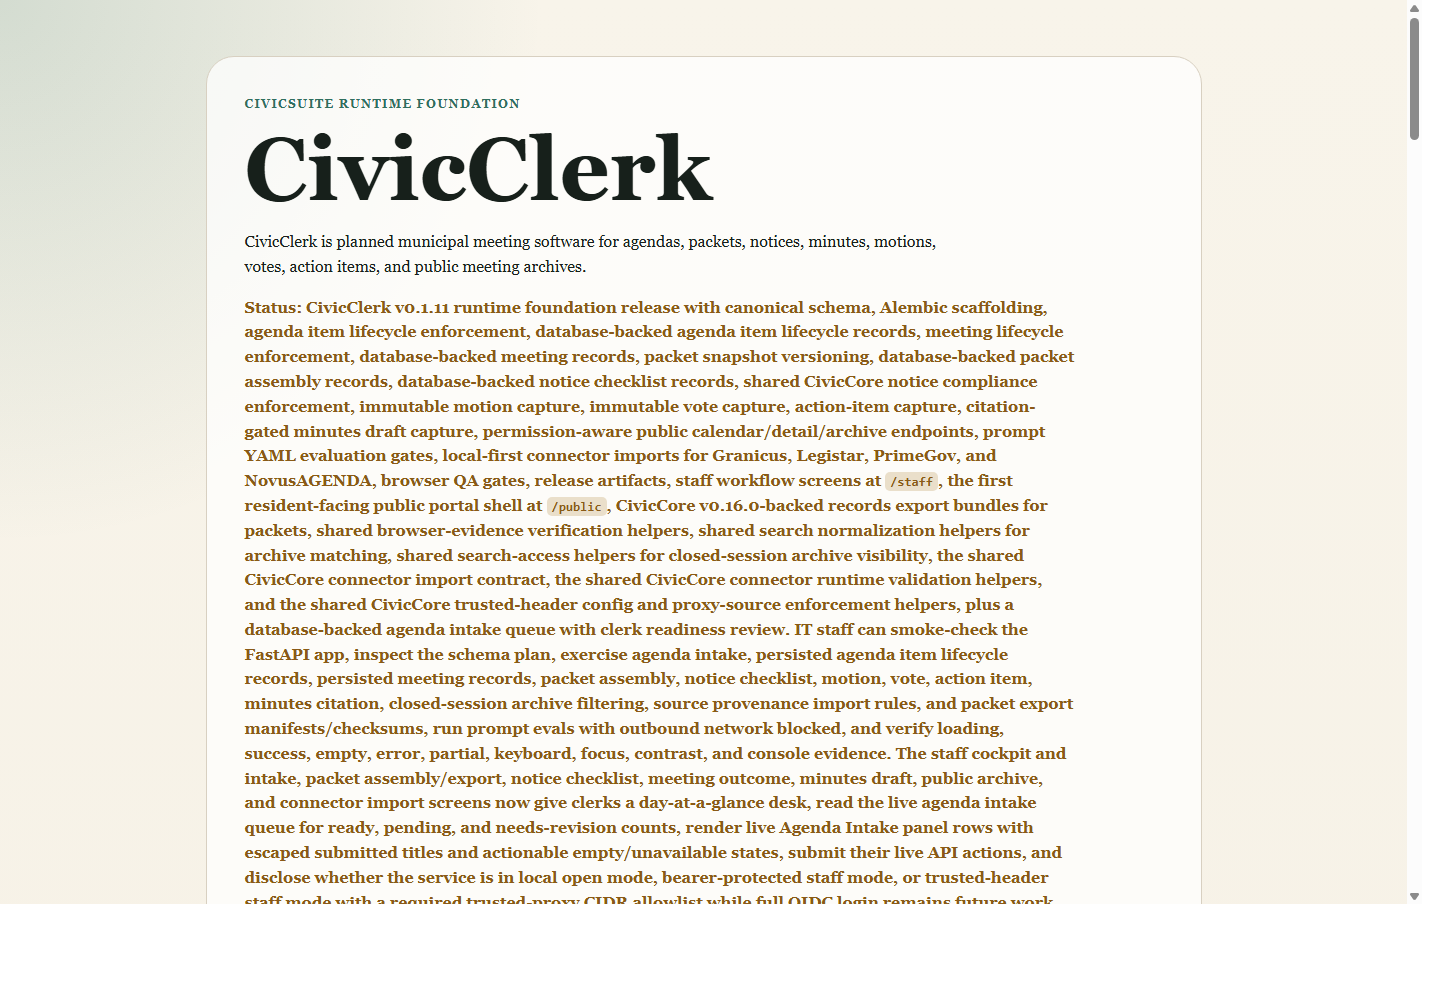
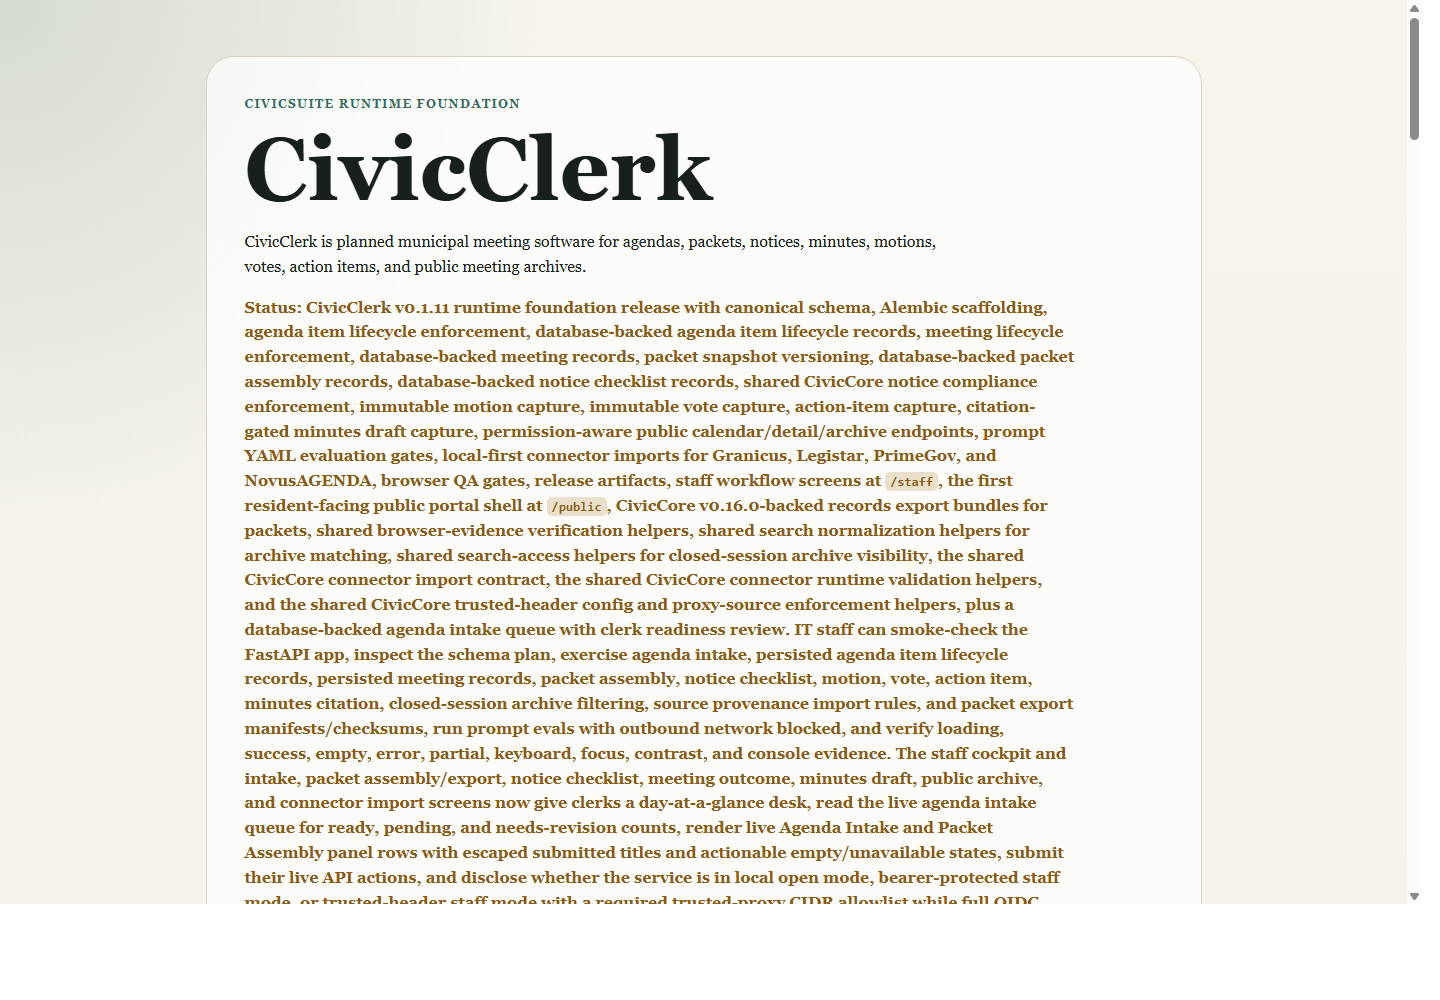
feat: render live packet assembly panel

Changed region(s): [[0.1562, 0.806, 0.75, 0.93]]

diff --git a/docs/index.html b/docs/index.html
@@ -51,7 +51,7 @@
       <div class="eyebrow">CivicSuite runtime foundation</div>
       <h1>CivicClerk</h1>
       <p>CivicClerk is planned municipal meeting software for agendas, packets, notices, minutes, motions, votes, action items, and public meeting archives.</p>
-<p class="status">Status: CivicClerk v0.1.11 runtime foundation release with canonical schema, Alembic scaffolding, agenda item lifecycle enforcement, database-backed agenda item lifecycle records, meeting lifecycle enforcement, database-backed meeting records, packet snapshot versioning, database-backed packet assembly records, database-backed notice checklist records, shared CivicCore notice compliance enforcement, immutable motion capture, immutable vote capture, action-item capture, citation-gated minutes draft capture, permission-aware public calendar/detail/archive endpoints, prompt YAML evaluation gates, local-first connector imports for Granicus, Legistar, PrimeGov, and NovusAGENDA, browser QA gates, release artifacts, staff workflow screens at <code>/staff</code>, the first resident-facing public portal shell at <code>/public</code>, CivicCore v0.16.0-backed records export bundles for packets, shared browser-evidence verification helpers, shared search normalization helpers for archive matching, shared search-access helpers for closed-session archive visibility, the shared CivicCore connector import contract, the shared CivicCore connector runtime validation helpers, and the shared CivicCore trusted-header config and proxy-source enforcement helpers, plus a database-backed agenda intake queue with clerk readiness review. IT staff can smoke-check the FastAPI app, inspect the schema plan, exercise agenda intake, persisted agenda item lifecycle records, persisted meeting records, packet assembly, notice checklist, motion, vote, action item, minutes citation, closed-session archive filtering, source provenance import rules, and packet export manifests/checksums, run prompt evals with outbound network blocked, and verify loading, success, empty, error, partial, keyboard, focus, contrast, and console evidence. The staff cockpit and intake, packet assembly/export, notice checklist, meeting outcome, minutes draft, public archive, and connector import screens now give clerks a day-at-a-glance desk, read the live agenda intake queue for ready, pending, and needs-revision counts, render live Agenda Intake panel rows with escaped submitted titles and actionable empty/unavailable states, submit their live API actions, and disclose whether the service is in local open mode, bearer-protected staff mode, or trusted-header staff mode with a required trusted-proxy CIDR allowlist while full OIDC login remains future work. The <code>/public</code> shell now gives residents a public-safe browser view over public calendar, detail, and archive search APIs while saying the finished public portal remains future work. The new <code>/staff/auth-readiness</code> contract now tells operators whether the configured bearer-token or trusted-header bridge is merely present or actually deployment-ready before a live session check, returns a session probe plus a write probe for protected deployment smoke checks, and includes a loopback-only local proxy rehearsal contract for <code>scripts/local_trusted_header_proxy.py</code> with <code>127.0.0.1/32</code> as the safe starter allowlist.</p>
+<p class="status">Status: CivicClerk v0.1.11 runtime foundation release with canonical schema, Alembic scaffolding, agenda item lifecycle enforcement, database-backed agenda item lifecycle records, meeting lifecycle enforcement, database-backed meeting records, packet snapshot versioning, database-backed packet assembly records, database-backed notice checklist records, shared CivicCore notice compliance enforcement, immutable motion capture, immutable vote capture, action-item capture, citation-gated minutes draft capture, permission-aware public calendar/detail/archive endpoints, prompt YAML evaluation gates, local-first connector imports for Granicus, Legistar, PrimeGov, and NovusAGENDA, browser QA gates, release artifacts, staff workflow screens at <code>/staff</code>, the first resident-facing public portal shell at <code>/public</code>, CivicCore v0.16.0-backed records export bundles for packets, shared browser-evidence verification helpers, shared search normalization helpers for archive matching, shared search-access helpers for closed-session archive visibility, the shared CivicCore connector import contract, the shared CivicCore connector runtime validation helpers, and the shared CivicCore trusted-header config and proxy-source enforcement helpers, plus a database-backed agenda intake queue with clerk readiness review. IT staff can smoke-check the FastAPI app, inspect the schema plan, exercise agenda intake, persisted agenda item lifecycle records, persisted meeting records, packet assembly, notice checklist, motion, vote, action item, minutes citation, closed-session archive filtering, source provenance import rules, and packet export manifests/checksums, run prompt evals with outbound network blocked, and verify loading, success, empty, error, partial, keyboard, focus, contrast, and console evidence. The staff cockpit and intake, packet assembly/export, notice checklist, meeting outcome, minutes draft, public archive, and connector import screens now give clerks a day-at-a-glance desk, read the live agenda intake queue for ready, pending, and needs-revision counts, render live Agenda Intake and Packet Assembly panel rows with escaped submitted titles and actionable empty/unavailable states, submit their live API actions, and disclose whether the service is in local open mode, bearer-protected staff mode, or trusted-header staff mode with a required trusted-proxy CIDR allowlist while full OIDC login remains future work. The <code>/public</code> shell now gives residents a public-safe browser view over public calendar, detail, and archive search APIs while saying the finished public portal remains future work. The new <code>/staff/auth-readiness</code> contract now tells operators whether the configured bearer-token or trusted-header bridge is merely present or actually deployment-ready before a live session check, returns a session probe plus a write probe for protected deployment smoke checks, and includes a loopback-only local proxy rehearsal contract for <code>scripts/local_trusted_header_proxy.py</code> with <code>127.0.0.1/32</code> as the safe starter allowlist.</p>
     </section>
 
     <section class="grid" aria-label="Product overview">

diff --git a/civicclerk/staff_ui.py b/civicclerk/staff_ui.py
@@ -172,11 +172,15 @@ def render_staff_dashboard(
     cockpit_items: Sequence[tuple[str, str, str]] | None = None,
     agenda_intake_items: Sequence[object] = (),
     agenda_intake_available: bool = True,
+    packet_assembly_records: Sequence[object] = (),
+    packet_assembly_available: bool = True,
 ) -> str:
     """Render the current staff workflow screens as dependency-free HTML."""
     screen_cards_data = _screen_cards_with_live_intake(
         agenda_intake_items=agenda_intake_items,
         agenda_intake_available=agenda_intake_available,
+        packet_assembly_records=packet_assembly_records,
+        packet_assembly_available=packet_assembly_available,
     )
     nav_buttons = "\n".join(
         f"""
@@ -918,11 +922,17 @@ def _screen_cards_with_live_intake(
     *,
     agenda_intake_items: Sequence[object],
     agenda_intake_available: bool,
+    packet_assembly_records: Sequence[object],
+    packet_assembly_available: bool,
 ) -> list[dict]:
     screen_cards = [dict(card) for card in SCREEN_CARDS]
     screen_cards[0]["rows"] = _agenda_intake_rows(
         agenda_intake_items=agenda_intake_items,
         agenda_intake_available=agenda_intake_available,
+    )
+    screen_cards[1]["rows"] = _packet_assembly_rows(
+        packet_assembly_records=packet_assembly_records,
+        packet_assembly_available=packet_assembly_available,
     )
     return screen_cards
 
@@ -977,6 +987,48 @@ def _next_intake_step(readiness_status: str | None) -> str:
     if readiness_status == "PENDING":
         return "Record clerk readiness review."
     return "Open the intake item and confirm readiness status."
+
+
+def _packet_assembly_rows(
+    *,
+    packet_assembly_records: Sequence[object],
+    packet_assembly_available: bool,
+) -> list[tuple[str, str, str, str]]:
+    if not packet_assembly_available:
+        return [
+            (
+                "IT",
+                "Packet assembly store unavailable",
+                "ERROR",
+                "Check CIVICCLERK_PACKET_ASSEMBLY_DB_URL and database reachability, then reload the staff desk.",
+            )
+        ]
+    if not packet_assembly_records:
+        return [
+            (
+                "Clerk",
+                "No packet assemblies yet",
+                "EMPTY",
+                "Create a meeting, submit at least one source and citation, then create the packet assembly record.",
+            )
+        ]
+    return [
+        (
+            f"Meeting {_field(record, 'meeting_id', 'unknown')}",
+            _field(record, "title", "Untitled packet assembly"),
+            _field(record, "status", "UNKNOWN"),
+            _next_packet_step(_field(record, "status", "UNKNOWN")),
+        )
+        for record in packet_assembly_records
+    ]
+
+
+def _next_packet_step(status: str) -> str:
+    if status == "FINALIZED":
+        return "Create the records-ready packet export bundle."
+    if status == "DRAFT":
+        return "Review sources and citations, then finalize the packet."
+    return "Open the packet assembly and confirm its status."
 
 
 def _render_screen_card(card: dict, active: bool) -> str:

diff --git a/tests/test_milestone_13_staff_workflow_ui.py b/tests/test_milestone_13_staff_workflow_ui.py
@@ -61,6 +61,8 @@ async def test_staff_ui_endpoint_renders_accessible_workflow_foundation() -> Non
     assert "Submit a department item with title, department, summary, and source references." in html
     assert "/meetings/{id}/packet-assemblies" in html
     assert "Packet Assembly" in html
+    assert "No packet assemblies yet" in html
+    assert "Create a meeting, submit at least one source and citation, then create the packet assembly record." in html
     assert "/meetings/{id}/notice-checklists" in html
     assert "Notice Checklist" in html
     assert "/notice-checklists/{id}/posting-proof" in html
@@ -216,6 +218,50 @@ async def test_staff_product_cockpit_handles_unavailable_intake_store(monkeypatc
     assert "check CIVICCLERK_AGENDA_INTAKE_DB_URL" in response.text
     assert "reload the staff desk" in response.text
     assert "Check CIVICCLERK_AGENDA_INTAKE_DB_URL and database reachability" in response.text
+
+
+async def test_staff_packet_panel_uses_live_packet_assembly_rows(monkeypatch, tmp_path) -> None:
+    monkeypatch.setenv("CIVICCLERK_PACKET_ASSEMBLY_DB_URL", f"sqlite:///{tmp_path / 'staff-packets.db'}")
+    async with AsyncClient(transport=ASGITransport(app=app), base_url="http://testserver") as client:
+        meeting = await client.post(
+            "/meetings",
+            json={
+                "title": "Live Packet Meeting",
+                "meeting_type": "regular",
+                "scheduled_start": "2026-05-05T19:00:00Z",
+            },
+        )
+        created = await client.post(
+            f"/meetings/{meeting.json()['id']}/packet-assemblies",
+            json={
+                "title": "Packet <script>draft</script>",
+                "agenda_item_ids": ["item-1"],
+                "actor": "clerk@example.gov",
+                "source_references": [{"source_id": "staff-report", "title": "Staff report"}],
+                "citations": [{"source_id": "staff-report", "locator": "p. 4", "claim": "Budget"}],
+            },
+        )
+        await client.post(
+            f"/packet-assemblies/{created.json()['id']}/finalize",
+            json={"actor": "clerk@example.gov"},
+        )
+        response = await client.get("/staff")
+
+    assert response.status_code == 200
+    assert "Packet &lt;script&gt;draft&lt;/script&gt;" in response.text
+    assert "Packet <script>draft</script>" not in response.text
+    assert "FINALIZED" in response.text
+    assert "Create the records-ready packet export bundle." in response.text
+
+
+async def test_staff_packet_panel_handles_unavailable_packet_store(monkeypatch) -> None:
+    monkeypatch.setenv("CIVICCLERK_PACKET_ASSEMBLY_DB_URL", "sqlite:///Z:/missing/packet-assembly.db")
+    async with AsyncClient(transport=ASGITransport(app=app), base_url="http://testserver") as client:
+        response = await client.get("/staff")
+
+    assert response.status_code == 200
+    assert "Packet assembly store unavailable" in response.text
+    assert "Check CIVICCLERK_PACKET_ASSEMBLY_DB_URL and database reachability" in response.text
 
 
 async def test_favicon_is_public_and_empty() -> None:

diff --git a/tests/test_production_depth_packet_assembly.py b/tests/test_production_depth_packet_assembly.py
@@ -79,6 +79,35 @@ def test_packet_assembly_finalize_updates_status_and_audit_hash(tmp_path) -> Non
     ]
 
 
+def test_packet_assembly_repository_lists_recent_records(tmp_path) -> None:
+    repo = PacketAssemblyRepository(db_url=f"sqlite:///{tmp_path / 'packet-assembly.db'}")
+    first = repo.create_draft(
+        meeting_id="meeting-1",
+        packet_snapshot_id="snapshot-1",
+        packet_version=1,
+        title="First packet",
+        actor="clerk@example.gov",
+        agenda_item_ids=["item-1"],
+        source_references=_source_refs(),
+        citations=_citations(),
+    )
+    second = repo.create_draft(
+        meeting_id="meeting-2",
+        packet_snapshot_id="snapshot-2",
+        packet_version=1,
+        title="Second packet",
+        actor="clerk@example.gov",
+        agenda_item_ids=["item-2"],
+        source_references=_source_refs(),
+        citations=_citations(),
+    )
+
+    recent = repo.list_recent(limit=1)
+
+    assert [record.id for record in recent] == [second.id]
+    assert first.id != second.id
+
+
 async def test_api_packet_assembly_create_list_finalize_and_export(monkeypatch, tmp_path) -> None:
     monkeypatch.setenv("CIVICCLERK_PACKET_ASSEMBLY_DB_URL", f"sqlite:///{tmp_path / 'api-assembly.db'}")
     monkeypatch.setenv("CIVICCLERK_EXPORT_ROOT", str(tmp_path / "exports"))

diff --git a/civicclerk/packet_assembly.py b/civicclerk/packet_assembly.py
@@ -163,6 +163,18 @@ class PacketAssemblyRepository:
             rows = connection.execute(statement).mappings().all()
         return [_row_to_record(row) for row in rows]
 
+    def list_recent(self, *, limit: int = 5) -> list[PacketAssemblyRecord]:
+        """Return recent packet assembly records for the staff dashboard."""
+
+        statement = (
+            sa.select(packet_assembly_records)
+            .order_by(packet_assembly_records.c.updated_at.desc())
+            .limit(limit)
+        )
+        with self.engine.begin() as connection:
+            rows = connection.execute(statement).mappings().all()
+        return [_row_to_record(row) for row in rows]
+
     def finalize(self, *, record_id: str, actor: str) -> PacketAssemblyRecord | None:
         existing = self.get(record_id)
         if existing is None:

diff --git a/civicclerk/main.py b/civicclerk/main.py
@@ -350,10 +350,18 @@ async def staff_dashboard() -> str:
         intake_items = []
         cockpit_items = build_staff_cockpit_items(agenda_intake_available=False)
         agenda_intake_available = False
+    try:
+        packet_assembly_records = _get_packet_assembly_repository().list_recent()
+        packet_assembly_available = True
+    except SQLAlchemyError:
+        packet_assembly_records = []
+        packet_assembly_available = False
     return render_staff_dashboard(
         cockpit_items=cockpit_items,
         agenda_intake_items=intake_items,
         agenda_intake_available=agenda_intake_available,
+        packet_assembly_records=packet_assembly_records,
+        packet_assembly_available=packet_assembly_available,
     )
 
 

diff --git a/README.md b/README.md
@@ -200,7 +200,7 @@ CivicClerk follows the CivicSuite pattern:
 
 The foundation is intentionally thin. Canonical schema, Alembic scaffolding, agenda item lifecycle enforcement, agenda item lifecycle persistence, meeting lifecycle enforcement, meeting records, packet snapshot versioning, packet assembly records, notice checklist records, shared notice compliance enforcement, immutable motion capture, immutable vote capture, action-item capture, citation-gated minutes draft capture, permission-aware public archive endpoints, prompt YAML/evaluation gates, local-first connector import normalization, browser QA gates, CivicClerk v0.1.11 release artifacts, and CivicCore v0.16.0 packet export, browser-evidence verification, connector runtime validation, and trusted-header config enforcement primitives are present. Minutes drafts require sentence-level citations, YAML prompt-version provenance, and human approval before acceptance, and they are never auto-adopted or auto-posted. Anonymous public archive endpoints do not reveal closed-session content in response bodies, counts, suggestions, or error messages. Connector imports record source provenance and do not require outbound network calls in the default local profile. Public packet exports block closed-session/restricted sources and include manifest, checksum, provenance, and audit evidence. Agenda item records now persist lifecycle status and audit entries when `CIVICCLERK_AGENDA_ITEM_DB_URL` is configured. Meeting records now persist scheduled starts, normalized meeting type, lifecycle status, and audit entries when `CIVICCLERK_MEETING_DB_URL` is configured. Packet assembly records now persist source references, citations, linked packet snapshot ids, and durable audit hashes. Notice checklist records persist compliance outcomes, warnings, posting proof, and durable audit hashes. Browser QA now checks loading, success, empty, error, and partial states plus keyboard, focus, contrast, and console evidence, and release screenshots are bound to the current docs page through shared CivicCore verification helpers. CivicClerk v0.1.11 now pairs with the published `civiccore` v0.16.0 release wheel. The first staff auth foundation is now explicit: local rehearsals can stay in `CIVICCLERK_STAFF_AUTH_MODE=open`, bearer-protected deployments can set `CIVICCLERK_STAFF_AUTH_MODE=bearer` plus `CIVICCLERK_STAFF_AUTH_TOKEN_ROLES`, and trusted reverse-proxy deployments can set `CIVICCLERK_STAFF_AUTH_MODE=trusted_header` plus `CIVICCLERK_STAFF_SSO_PRINCIPAL_HEADER`, `CIVICCLERK_STAFF_SSO_ROLES_HEADER`, `CIVICCLERK_STAFF_SSO_PROVIDER`, and `CIVICCLERK_STAFF_SSO_TRUSTED_PROXIES` until full OIDC login lands. The `/staff/auth-readiness` endpoint now tells operators whether those bearer or trusted-proxy settings are merely present or actually deployment-ready, and it includes a loopback-only rehearsal recipe so trusted-header testing does not require inventing a custom proxy first.
 
-The staff experience at `/staff` now includes a product cockpit plus first workflow screens for agenda intake, packet assembly/export, notice checklist/posting-proof, meeting outcome, minutes draft, public archive, and connector import work. It is intentionally honest: the cockpit gives clerks a day-at-a-glance desk, reads the live agenda intake queue for ready/pending/needs-revision counts, the Agenda Intake panel renders live queue rows with escaped user-submitted titles and actionable empty/unavailable-store rows, the seven workflow screens can submit their corresponding live API actions, the auth panel now renders concrete protected-session and protected-write probes from `/staff/auth-readiness` when bearer or trusted-header mode is ready, it surfaces the loopback-only local proxy rehearsal command and env vars when trusted-header mode is being staged, and the broader multi-role React clerk console remains future work. The resident-facing `/public` shell now gives the same honesty on the public side: it loads public calendar records, public-safe detail, and anonymous archive search from the live public APIs, shows actionable loading/empty/error states, and says the finished public portal is still future work.
+The staff experience at `/staff` now includes a product cockpit plus first workflow screens for agenda intake, packet assembly/export, notice checklist/posting-proof, meeting outcome, minutes draft, public archive, and connector import work. It is intentionally honest: the cockpit gives clerks a day-at-a-glance desk, reads the live agenda intake queue for ready/pending/needs-revision counts, the Agenda Intake and Packet Assembly panels render live queue/record rows with escaped user-submitted titles and actionable empty/unavailable-store rows, the seven workflow screens can submit their corresponding live API actions, the auth panel now renders concrete protected-session and protected-write probes from `/staff/auth-readiness` when bearer or trusted-header mode is ready, it surfaces the loopback-only local proxy rehearsal command and env vars when trusted-header mode is being staged, and the broader multi-role React clerk console remains future work. The resident-facing `/public` shell now gives the same honesty on the public side: it loads public calendar records, public-safe detail, and anonymous archive search from the live public APIs, shows actionable loading/empty/error states, and says the finished public portal is still future work.
 
 For the first real trusted-header deployment handoff, `docs/examples/trusted-header-nginx.conf` now ships a reference nginx bridge that strips client-supplied identity headers, sets proxy-owned staff headers, and points operators back to `CIVICCLERK_STAFF_SSO_TRUSTED_PROXIES` plus the `/staff/auth-readiness` contract before live staff traffic is trusted.
 

diff --git a/docs/screenshots/milestone13-staff-ui-summary.md b/docs/screenshots/milestone13-staff-ui-summary.md
@@ -6,6 +6,7 @@
 - Product cockpit checked: `Product cockpit`, `Today's clerk desk`, `Items ready for clerk review`, `Live workflow actions`, `Silent dead ends`, `Go-live checks`, and the `1. Intake` / `2. Build` / `3. Publish` lane render before the workflow forms
 - Live cockpit count checked: `/staff` reads the agenda intake queue and renders `Live agenda intake queue is empty; submit a department item to start the clerk desk.` when no intake records exist
 - Live Agenda Intake panel checked: the panel renders `No intake items yet` with a creation fix path when the queue is empty, live reviewed queue rows when records exist, escaped submitted titles, and an actionable unavailable-store row when the database cannot be reached
+- Live Packet Assembly panel checked: the panel renders `No packet assemblies yet` with a creation fix path when no packet work exists, recent live packet assembly rows when records exist, escaped packet titles, and an actionable unavailable-store row when the database cannot be reached
 - Desktop evidence: `docs/screenshots/milestone13-staff-ui-desktop.png`
 - Mobile evidence: `docs/screenshots/milestone13-staff-ui-mobile.png`
 - Console: 0 messages expected from the shipped auth panel flow and no browser gate failures in `python scripts/verify-browser-qa.py`

diff --git a/USER-MANUAL.md b/USER-MANUAL.md
@@ -60,6 +60,8 @@ connector import work. The cockpit gives clerks a day-at-a-glance desk before
 they drill into individual forms, and it reads the live agenda intake queue for
 ready, pending, and needs-revision counts. The Agenda Intake panel also renders
 live queue rows with escaped submitted titles plus actionable empty and
+unavailable-store states. The Packet Assembly panel renders recent live packet
+assembly records with escaped packet titles plus actionable empty and
 unavailable-store states. The workflow forms can submit
 intake items, record readiness review, create/finalize packet assembly records,
 create records-ready packet export bundles, persist notice checklist records, attach posting proof, capture

diff --git a/CHANGELOG.md b/CHANGELOG.md
@@ -13,6 +13,9 @@ All notable changes to CivicClerk are documented here.
 - The `/staff` Agenda Intake panel now renders live intake queue rows instead
   of sample data, including escaped user-submitted titles and actionable empty
   or unavailable-store rows.
+- The `/staff` Packet Assembly panel now renders recent live packet assembly
+  records instead of sample data, including escaped packet titles and actionable
+  empty or unavailable-store rows.
 - `scripts/check_connector_sync_readiness.py` now verifies the supported
   Granicus, Legistar, PrimeGov, and NovusAGENDA local payload contracts without
   outbound network calls before future scheduled live-sync work.
